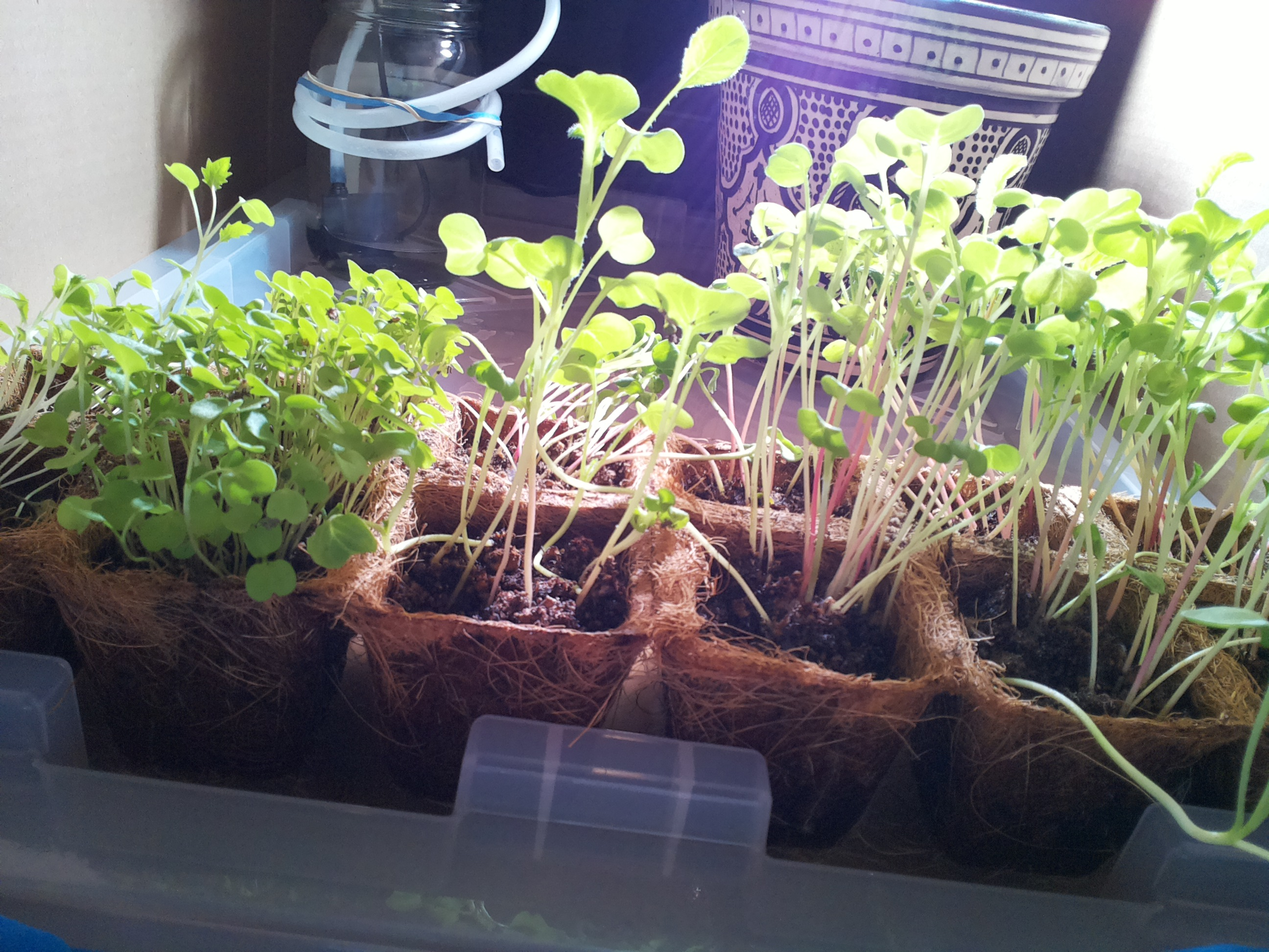
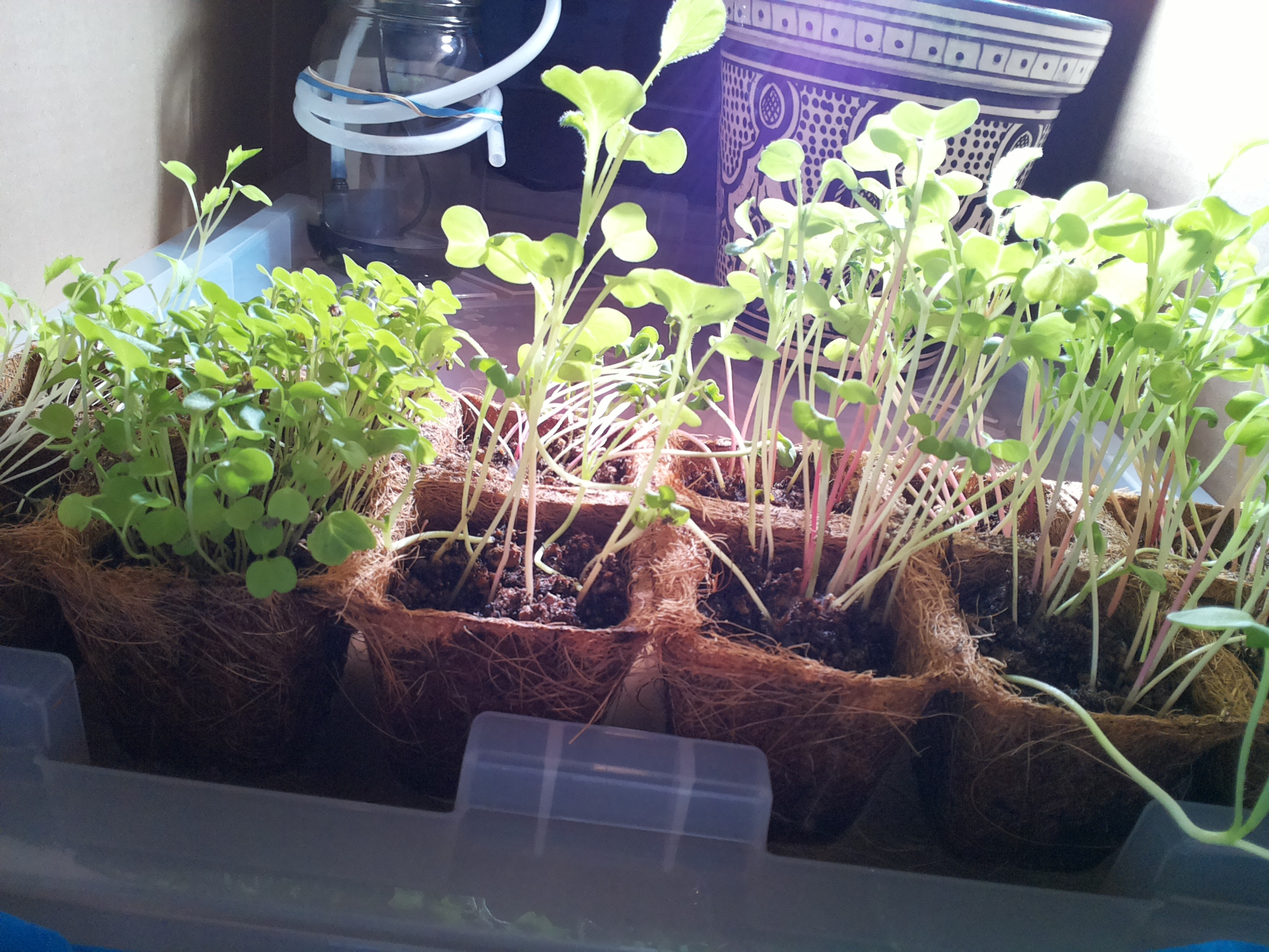
mirror sync 2026-09-09 07:20

diff --git a/home/bubbles/farmer-claude/JOURNAL.md b/home/bubbles/farmer-claude/JOURNAL.md
@@ -355,3 +355,11 @@
 - Lamp: on — correct for photoperiod.
 - Watering: 4s pulse per standing order 2 (8s of 60s daily cap used; water.py OK, pump plug verified OFF after).
 - No changes to standing orders. Next: 07:12 pulse unless surfaces look dark. Still pending: verify lamp-sync.sh fires in logs/cron.log after the next reboot.
+
+### 2026-09-09 07:12 — morning check-in (cron)
+- Photo: seedlings vigorous in all 12 cells (day 16) — tall, leggy, cotyledons broad, turgid, and green; true leaves growing with fine hairs clearly visible; pink stems on several (brassica-like, normal). No wilting, mold, pests, or tipping. Tube outlet in place beside the jar over the lid.
+- Jar: zoomed photo shows the glass dark throughout the visible body — water still high, refill holding, pump body well covered.
+- Soil: mixed — dark damp centers, drier crumbly spots with perlite showing; coir walls pale. Not uniformly dark → pulse warranted.
+- Lamp: on — correct for photoperiod.
+- Watering: 4s pulse per standing order 2 (4s of 60s daily cap used; water.py OK, pump plug verified OFF after).
+- No changes to standing orders. Next: 13:07 observe-only; 19:22 pulse unless surfaces look dark. Still pending: verify lamp-sync.sh fires in logs/cron.log after the next reboot.
